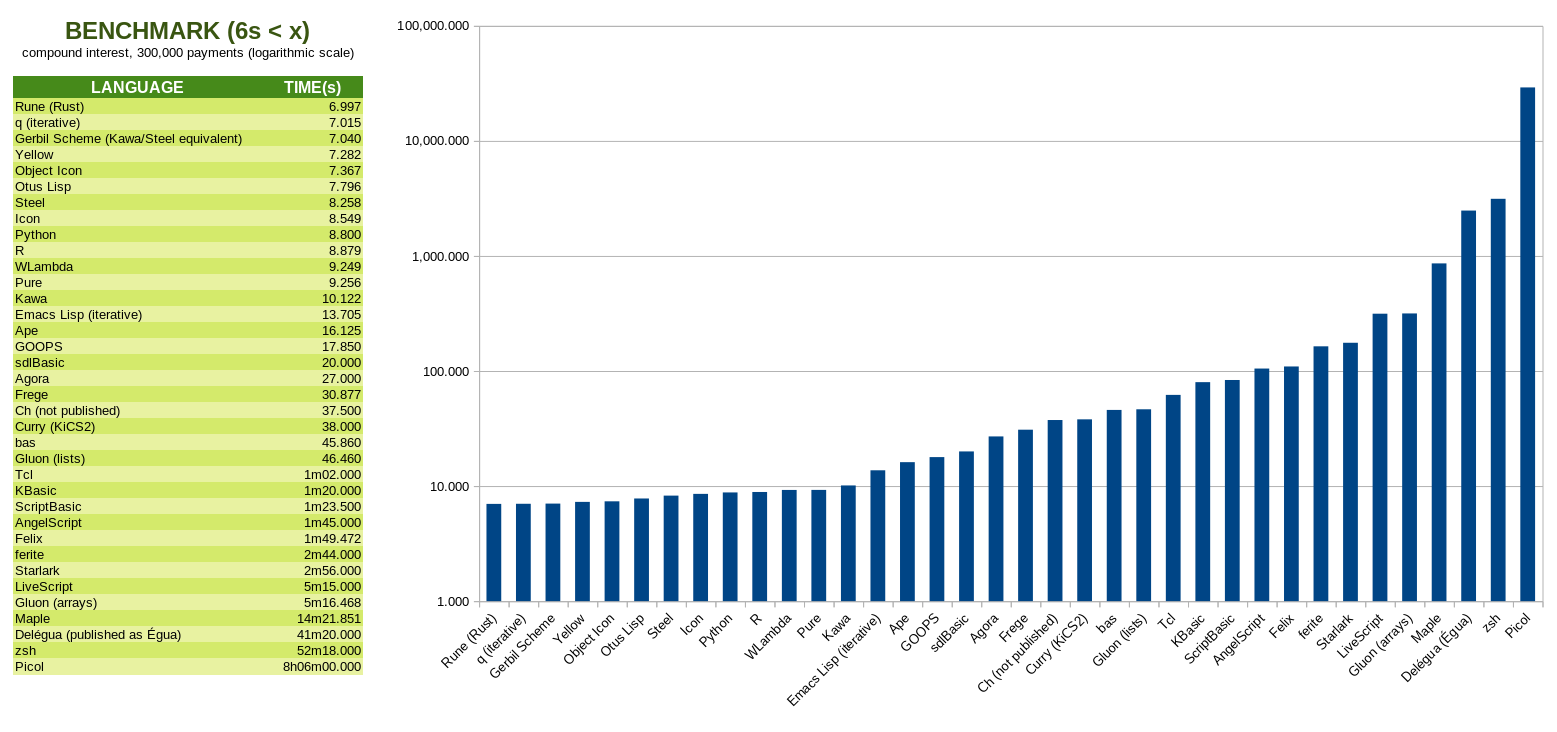
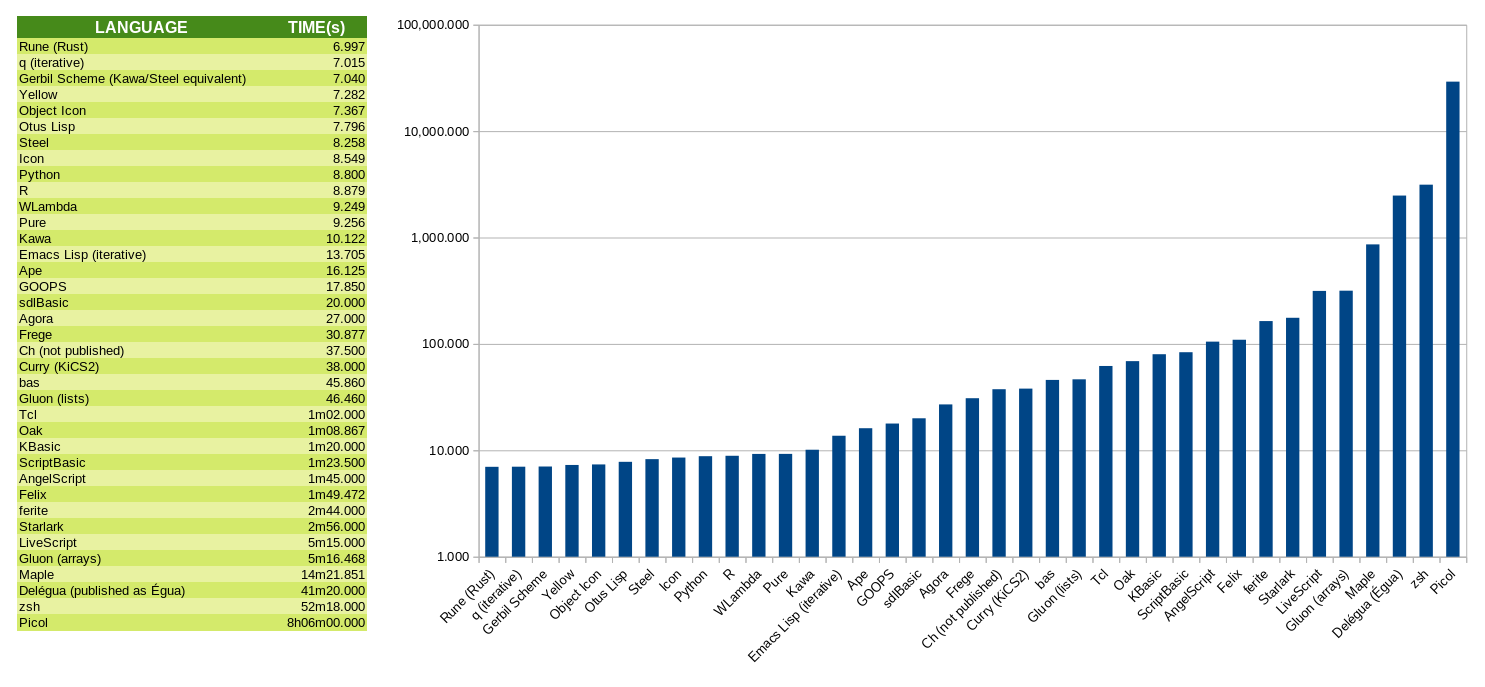
Add files via upload
//        0.3: 30/10/2026: casos especiais substituídos por 0.0s, colocados os corpos das funções em blocos, melhorados comentários,
//                         preenche açúcar separada de rPreenche, acrescentadas validações de variáveis, parâmetros e cálculos,
//                         funções recursivas alteradas para permitir Tail Call Optimization (TCO); incluindo posição das inclusões de elementos em rPreenche

Changed region(s): [[0.0, 0.0, 0.9912, 0.9476], [0.4956, 0.917, 0.5266, 0.9782], [0.2788, 0.4891, 0.3407, 0.5197]]

diff --git a/SOLUCOES.md b/SOLUCOES.md
@@ -1050,7 +1050,7 @@ This is a list of links in this repository to solutions in different dialects, o
 
 [juros.nu](juros.nu)
 
-### Oak (05/03/2025) ♻
+### Oak (05/03/2025) ♻ ➰
 
 [juros.oak](juros.oak)
 
